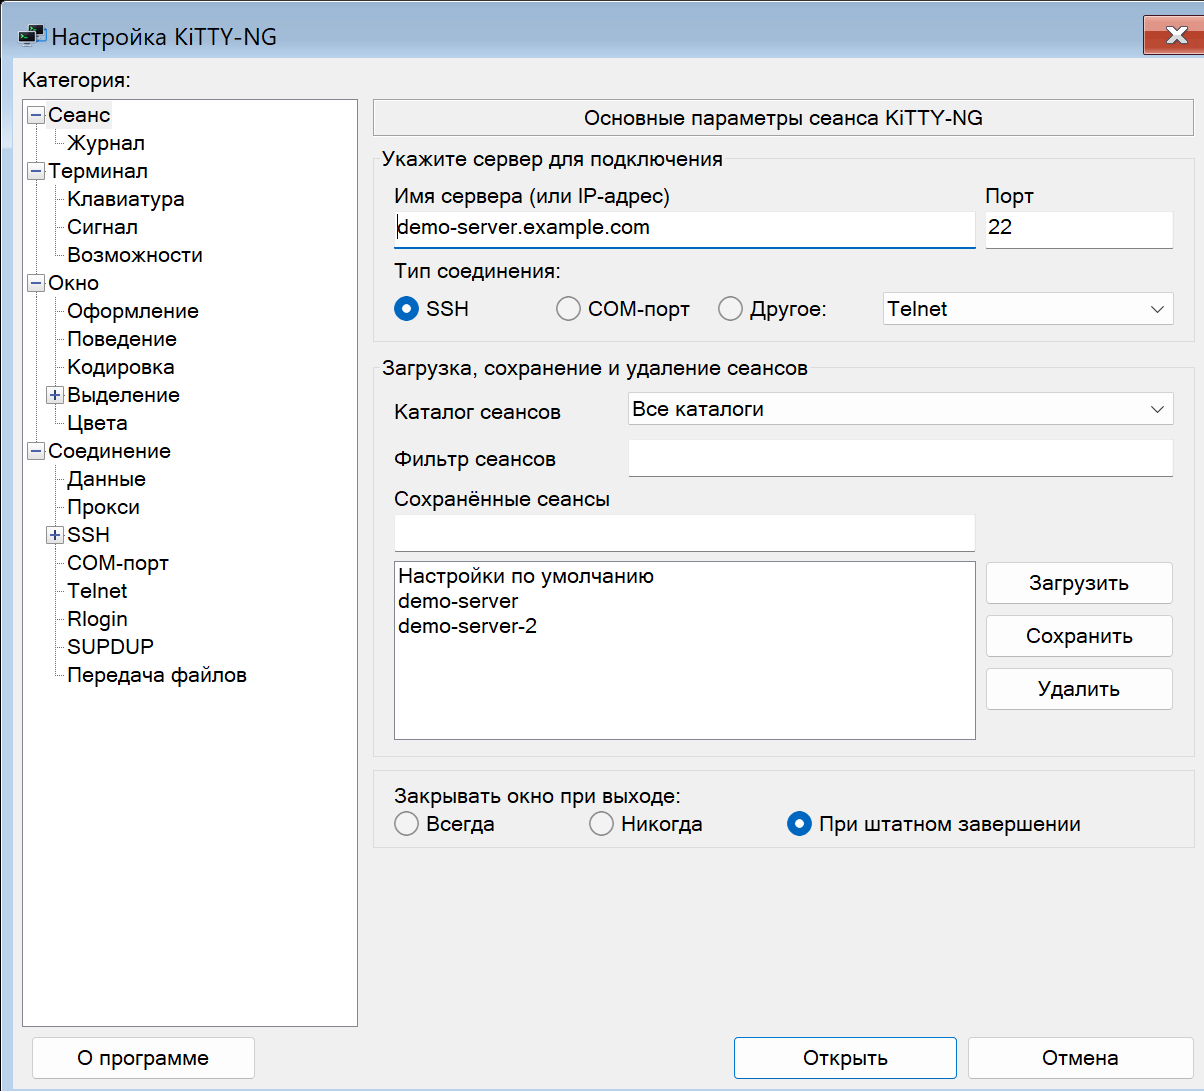
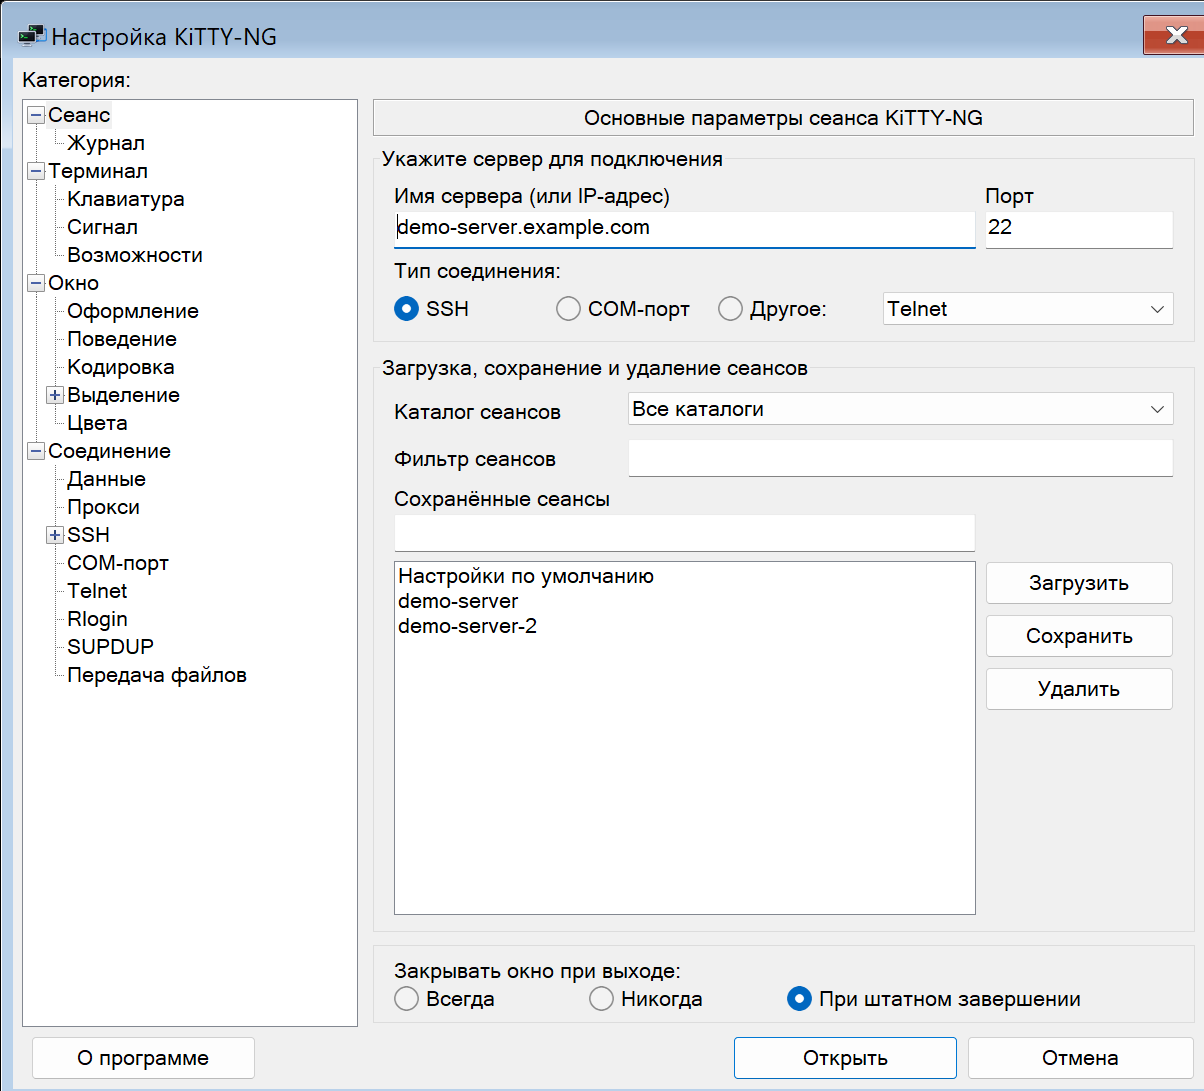
Увеличить список сеансов и перенести варианты закрытия вниз

diff --git a/config.c b/config.c
@@ -2022,7 +2022,8 @@ void setup_config_box(struct controlbox *b, bool midsession,
                                 HELPCTX(session_saved),
                                 sessionsaver_handler, P(ssd));
     ssd->listbox->column = 0;
-    ssd->listbox->listbox.height = 7;
+    /* Fill the main Session panel down to the exit-policy footer. */
+    ssd->listbox->listbox.height = midsession ? 7 : 14;
     if (!midsession) {
         ssd->loadbutton = ctrl_pushbutton(s, "Load", 'l',
                                           HELPCTX(session_saved),

diff --git a/version.h b/version.h
@@ -1,6 +1,6 @@
 /* Generated by automated build script */
 #define RELEASE 0.85
 #define PRERELEASE 1
-#define TEXTVER "KiTTY-NG 0.85-test-2"
-#define SSHVER "-Release-0.85-test-2"
+#define TEXTVER "KiTTY-NG 0.85-test-3"
+#define SSHVER "-Release-0.85-test-3"
 #define BINARY_VERSION 0,85,0,0

diff --git a/README.md b/README.md
@@ -6,13 +6,13 @@ SSH, Telnet и последовательный терминал для Windows 
 
 <img src="icons/kitty-ng.png" width="192" alt="Два соединённых терминала">
 
-**Тестовая версия: 0.85-test-2.** Перенос расширений KiTTY продолжается. Это новая база PuTTY с адаптированными расширениями, а не полная копия всех возможностей старого KiTTY. Статус переноса описан в [документе миграции](docs/migration.md).
+**Тестовая версия: 0.85-test-3.** Перенос расширений KiTTY продолжается. Это новая база PuTTY с адаптированными расширениями, а не полная копия всех возможностей старого KiTTY. Статус переноса описан в [документе миграции](docs/migration.md).
 
 ## Скачать и запустить
 
 Сборки публикуются в [релизах](https://github.com/nr084/kitty-ng/releases). Выберите Windows **x64**, **x86** или **ARM64**, распакуйте архив и запустите соответственно `kitty-ng-x64.exe`, `kitty-ng-x86.exe` или `kitty-ng-arm64.exe`. Установка не требуется. В комплект входят klink, kscp, ksftp, kittygen и kageant на базе утилит PuTTY.
 
-Релиз содержит три архива: `kitty-ng-0.85-test-2-x64.zip`, `kitty-ng-0.85-test-2-x86.zip` и `kitty-ng-0.85-test-2-arm64.zip`. Все EXE внутри имеют суффикс архитектуры. Например, архив x64 содержит `kitty-ng-x64.exe`, `klink-x64.exe`, `kscp-x64.exe`, `ksftp-x64.exe`, `kittygen-x64.exe` и `kageant-x64.exe`. В остальных архивах используется суффикс `-x86` или `-arm64`. В именах EXE версия не добавляется; встроенные сведения о версии сохраняются. Контрольные суммы архивов приводятся в описании релиза.
+Релиз содержит три архива: `kitty-ng-0.85-test-3-x64.zip`, `kitty-ng-0.85-test-3-x86.zip` и `kitty-ng-0.85-test-3-arm64.zip`. Все EXE внутри имеют суффикс архитектуры. Например, архив x64 содержит `kitty-ng-x64.exe`, `klink-x64.exe`, `kscp-x64.exe`, `ksftp-x64.exe`, `kittygen-x64.exe` и `kageant-x64.exe`. В остальных архивах используется суффикс `-x86` или `-arm64`. В именах EXE версия не добавляется; встроенные сведения о версии сохраняются. Контрольные суммы архивов приводятся в описании релиза.
 
 Архивы поставляются в портативном режиме: файл `kitty-ng.portable` включает хранение рядом с программой. Для хранения в реестре удалите этот маркер и убедитесь, что в `kitty.ini` нет `savemode=dir`. В обычном режиме используется ветка `HKCU\Software\KiTTY-NG`.
 

diff --git a/docs/releases/0.85-test-3.md b/docs/releases/0.85-test-3.md
@@ -1,0 +1,12 @@
+# KiTTY-NG 0.85-test-3
+
+- В главном окне настройки блок «Закрывать окно при выходе» с тремя вариантами перенесён к нижнему краю панели «Сеанс».
+- Освободившееся место отдано сохранённым сеансам: список показывает 14 строк вместо 7.
+
+Проверена компоновка русского и английского интерфейсов, обновлены скриншоты в README. Логика загрузки, сохранения, поиска сеансов и закрытия окна не менялась. Результаты ранее пройденных незатронутых тестов использованы повторно.
+
+Три архива выпуска содержат клиент и пять утилит соответствующей архитектуры: x64, x86 и ARM64. Все сборки выполнены локально стабильным LLVM-MinGW/Clang 23.1.3 на базе PuTTY 0.85. Запуск на устройстве ARM64 ещё требует проверки.
+
+Сохраняются возможности предыдущего выпуска: портативные настройки KiTTY, русский/английский интерфейс, передача файлов через SFTP/SCP и перетаскивание, вход с сохранённым паролем или SSH-ключом.
+
+Благодарности Simon Tatham и участникам PuTTY, а также Cyril Dupont (cyd01), автору KiTTY. Оригинальные лицензии сохранены. Перенос остальных расширений KiTTY продолжается; текущий состав описан в README и отчёте миграции.

diff --git a/README.en.md b/README.en.md
@@ -6,13 +6,13 @@ SSH, Telnet and serial terminal for Windows, based on PuTTY 0.85, with English a
 
 <img src="icons/kitty-ng.png" width="192" alt="Two connected terminals">
 
-**Test version: 0.85-test-2.** Migration of KiTTY extensions is ongoing. This release uses a modern PuTTY codebase with selected KiTTY features; it does not yet include every feature of the original KiTTY. The [migration report](docs/migration.md) describes the current scope in Russian.
+**Test version: 0.85-test-3.** Migration of KiTTY extensions is ongoing. This release uses a modern PuTTY codebase with selected KiTTY features; it does not yet include every feature of the original KiTTY. The [migration report](docs/migration.md) describes the current scope in Russian.
 
 ## Download and run
 
 Download the appropriate archive from [Releases](https://github.com/nr084/kitty-ng/releases): **x64**, **x86** or **ARM64**. Extract it and run `kitty-ng-x64.exe`, `kitty-ng-x86.exe` or `kitty-ng-arm64.exe`. No installation is required.
 
-Each release contains three archives: `kitty-ng-0.85-test-2-x64.zip`, `kitty-ng-0.85-test-2-x86.zip` and `kitty-ng-0.85-test-2-arm64.zip`. Every executable inside an archive uses the matching architecture suffix. For example, the x64 archive contains:
+Each release contains three archives: `kitty-ng-0.85-test-3-x64.zip`, `kitty-ng-0.85-test-3-x86.zip` and `kitty-ng-0.85-test-3-arm64.zip`. Every executable inside an archive uses the matching architecture suffix. For example, the x64 archive contains:
 
 ```text
 kitty-ng-x64.exe
